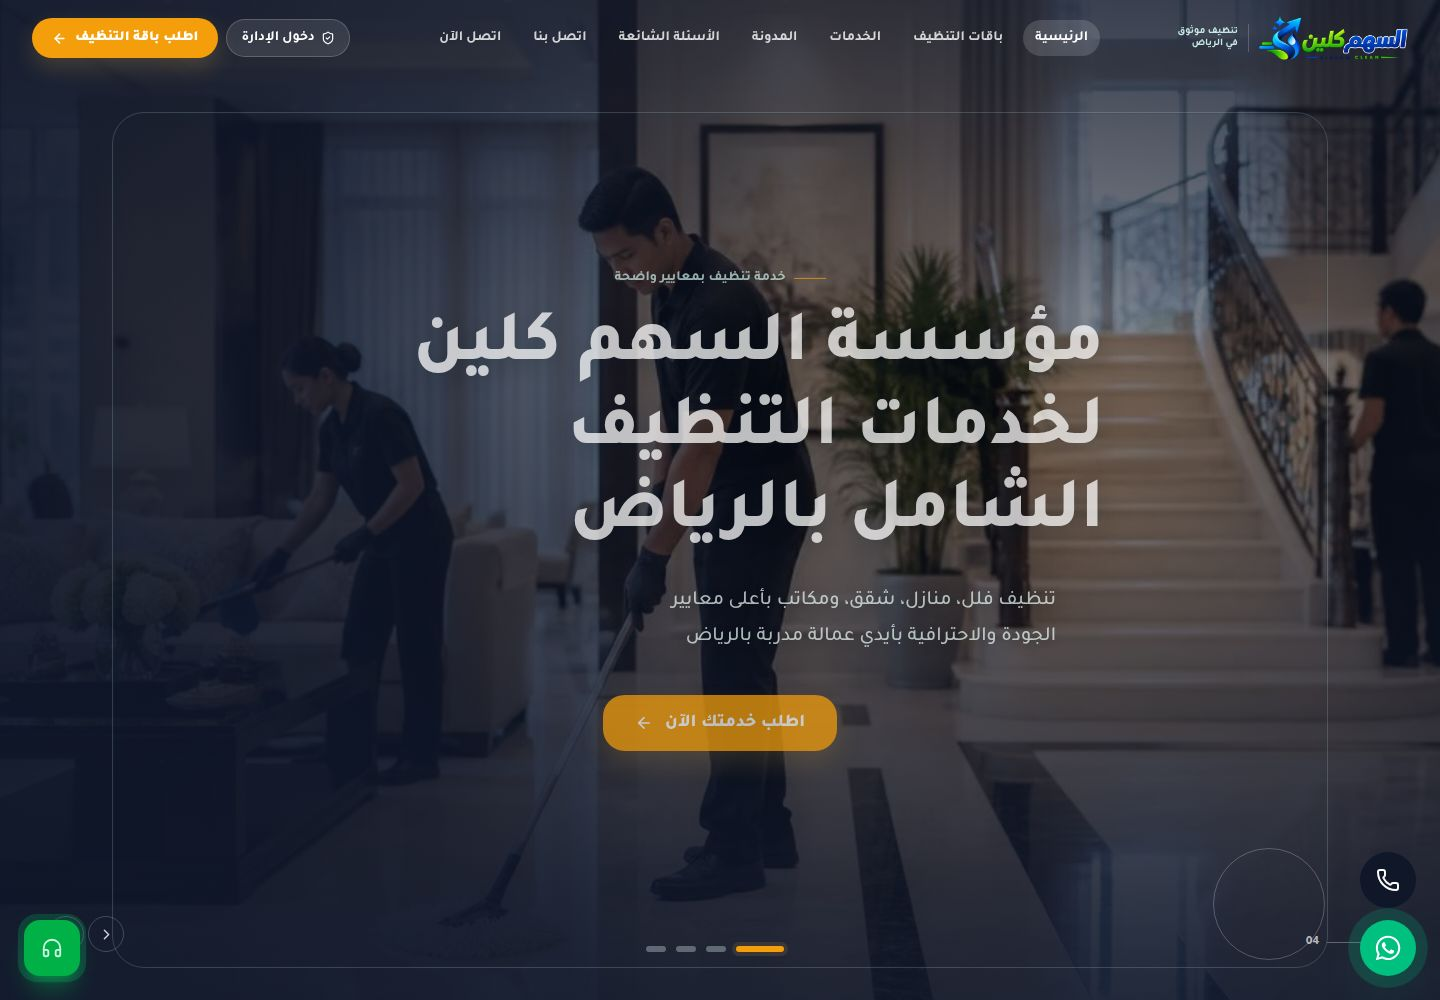
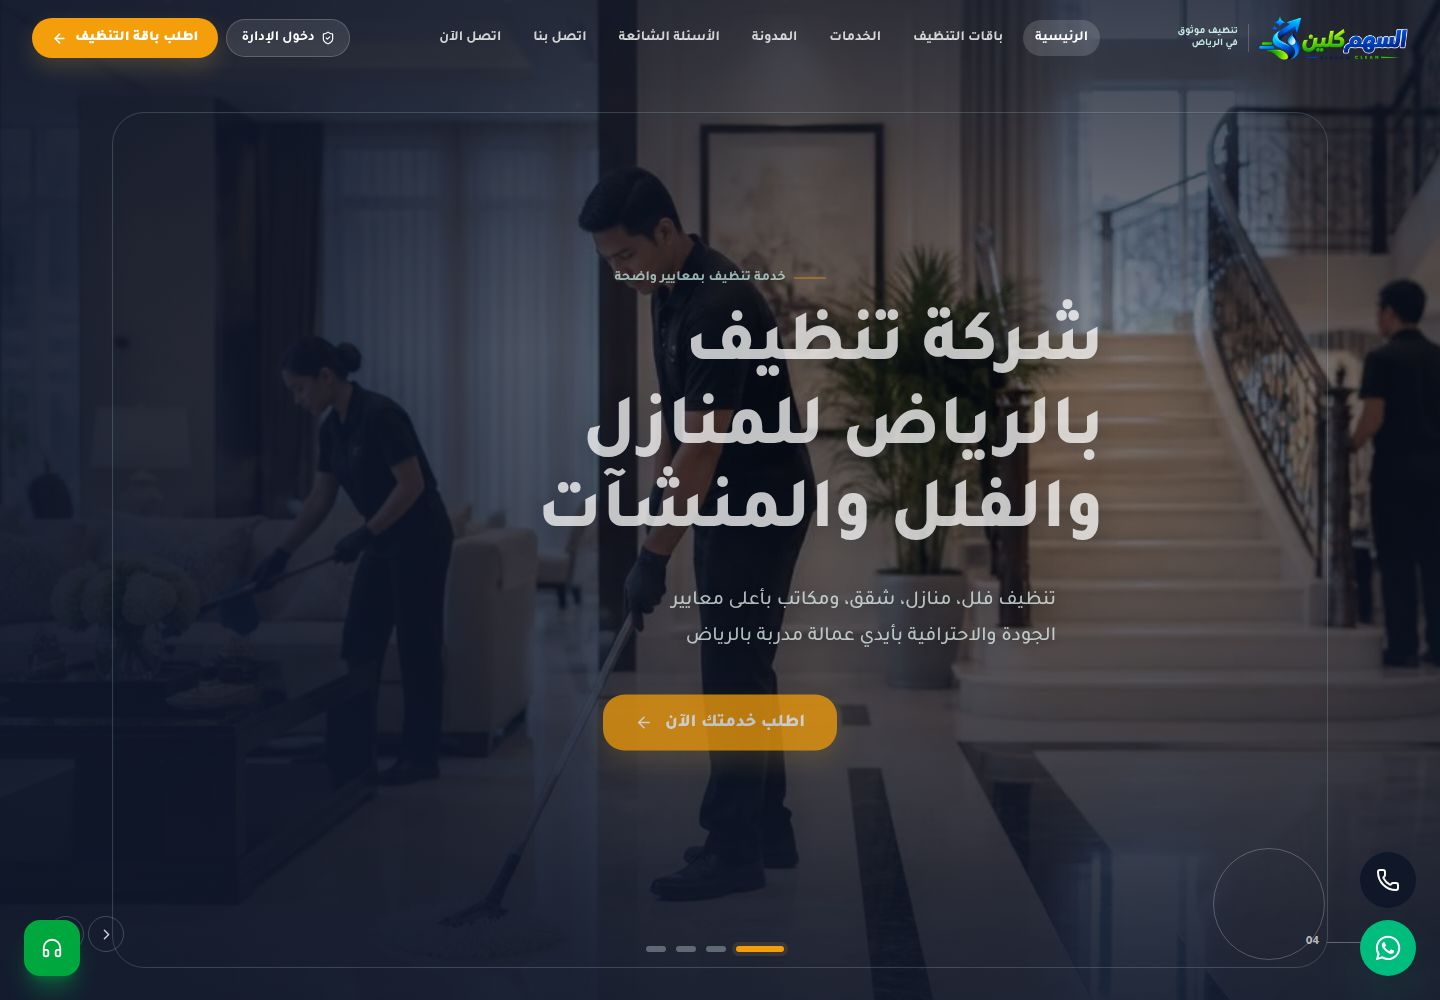
Update SEO remediation plan and sitemap generation scripts with new screenshots and documentation
Replit-Commit-Author: Agent

Changed region(s): [[0.2812, 0.31, 0.7812, 0.558], [0.9375, 0.899, 1.0, 0.992], [0.0, 0.899, 0.0625, 0.992]]

diff --git a/scripts/api-index.php b/scripts/api-index.php
@@ -818,20 +818,26 @@ try {
             'central-riyadh', 'al-olaya', 'al-sulaimaniya', 'al-malaz', 'al-murabba', 'al-batha', 'al-wizarat', 'al-futah'
         ];
 
+        // Keep this list identical to scripts/generate-sitemap.mjs. Legacy
+        // landing pages remain reachable through redirects, but must not be
+        // advertised as competing canonical URLs.
         $staticPages = [
-            ['path' => '', 'priority' => '1.0', 'freq' => 'weekly'],
+            ['path' => '/', 'priority' => '1.0', 'freq' => 'daily'],
             ['path' => '/about', 'priority' => '0.9', 'freq' => 'monthly'],
             ['path' => '/services', 'priority' => '0.95', 'freq' => 'weekly'],
             ['path' => '/cleaning-packages', 'priority' => '0.95', 'freq' => 'weekly'],
-            ['path' => '/offers', 'priority' => '0.9', 'freq' => 'weekly'],
-            ['path' => '/اتصل-الآن', 'priority' => '0.8', 'freq' => 'monthly'],
             ['path' => '/contact', 'priority' => '0.85', 'freq' => 'monthly'],
             ['path' => '/partners', 'priority' => '0.75', 'freq' => 'monthly'],
-            ['path' => '/areas', 'priority' => '0.85', 'freq' => 'monthly'],
-            ['path' => '/why-us/leadership', 'priority' => '0.75', 'freq' => 'monthly'],
-            ['path' => '/why-us/what-we', 'priority' => '0.75', 'freq' => 'monthly'],
-            ['path' => '/why-us/commitment', 'priority' => '0.75', 'freq' => 'monthly'],
-            ['path' => '/why-us/accumulated-experience', 'priority' => '0.7', 'freq' => 'monthly'],
+            ['path' => '/areas', 'priority' => '0.9', 'freq' => 'weekly'],
+            ['path' => '/faq', 'priority' => '0.85', 'freq' => 'monthly'],
+            ['path' => '/terms', 'priority' => '0.6', 'freq' => 'monthly'],
+            ['path' => '/privacy', 'priority' => '0.6', 'freq' => 'monthly'],
+            ['path' => '/chat', 'priority' => '0.7', 'freq' => 'monthly'],
+            ['path' => '/why-us/leadership', 'priority' => '0.8', 'freq' => 'monthly'],
+            ['path' => '/why-us/what-we', 'priority' => '0.8', 'freq' => 'monthly'],
+            ['path' => '/why-us/commitment', 'priority' => '0.8', 'freq' => 'monthly'],
+            ['path' => '/why-us/accumulated-experience', 'priority' => '0.8', 'freq' => 'monthly'],
+            ['path' => '/blog', 'priority' => '0.9', 'freq' => 'daily'],
         ];
 
         $lines = [
@@ -851,6 +857,7 @@ try {
             $lines[] = '    <lastmod>' . $today . '</lastmod>';
             $lines[] = '    <changefreq>' . $sp['freq'] . '</changefreq>';
             $lines[] = '    <priority>' . $sp['priority'] . '</priority>';
+            $lines[] = '    <xhtml:link rel="alternate" hreflang="ar" href="' . $xmlEscape($u) . '"/>';
             $staticImages = $sp['path'] === '/'
                 ? json_encode(['/brand-icon.png', '/images/logo.png'])
                 : ($sp['path'] === '/about'
@@ -870,21 +877,23 @@ try {
             $lines[] = '    <lastmod>' . $today . '</lastmod>';
             $lines[] = '    <changefreq>monthly</changefreq>';
             $lines[] = '    <priority>0.8</priority>';
+            $lines[] = '    <xhtml:link rel="alternate" hreflang="ar" href="' . $xmlEscape($u) . '"/>';
             $lines[] = '  </url>';
         }
 
         // Services
-        $servicesStmt = $pdo->query("SELECT seo_slug, seo_title, title, images FROM services WHERE is_active = 1 AND seo_enabled = 1");
+        $servicesStmt = $pdo->query('SELECT seo_slug, seo_title, title, images FROM services WHERE is_active = 1 AND seo_enabled = 1 AND seo_slug IS NOT NULL AND seo_slug <> \'\' ORDER BY "order" ASC');
         $services = $servicesStmt->fetchAll();
         foreach ($services as $srv) {
             $slug = $srv['seo_slug'] ?: '';
             if (!$slug) continue;
-            $u = $baseUrl . '/services/' . $slug;
+            $u = $baseUrl . '/services/' . rawurlencode($slug);
             $lines[] = '  <url>';
             $lines[] = '    <loc>' . htmlspecialchars($u, ENT_XML1) . '</loc>';
             $lines[] = '    <lastmod>' . $today . '</lastmod>';
             $lines[] = '    <changefreq>weekly</changefreq>';
             $lines[] = '    <priority>0.85</priority>';
+            $lines[] = '    <xhtml:link rel="alternate" hreflang="ar" href="' . $xmlEscape($u) . '"/>';
             $appendImages($lines, $srv['images'] ?? '[]', (string)($srv['seo_title'] ?: $srv['title']));
             $lines[] = '  </url>';
         }
@@ -892,7 +901,10 @@ try {
         // Packages
         $pkgCount = 0;
         try {
-            $pkgStmt = $pdo->query("SELECT id, seo_slug, name, images, image_url FROM packages WHERE is_active = 1 AND seo_enabled = 1");
+            // The public package API and the Node sitemap both use containers.
+            // The older packages table is an editorial compatibility table and
+            // can have rows that are not public package pages.
+            $pkgStmt = $pdo->query('SELECT id, seo_slug, name, images FROM containers WHERE is_active = 1 AND seo_enabled = 1 AND seo_slug IS NOT NULL AND seo_slug <> \'\' ORDER BY "order" ASC');
             $pkgs = $pkgStmt->fetchAll();
             $legacyPackageRouteSlugs = [
                 1 => 'tanzeef-shaqaq',
@@ -916,56 +928,49 @@ try {
             foreach ($pkgs as $pkg) {
                 $slug = $legacyPackageRouteSlugs[(int)($pkg['id'] ?? 0)] ?? ($pkg['seo_slug'] ?: '');
                 if (!$slug) continue;
-                $u = $baseUrl . '/cleaning-packages/' . $slug;
+                $u = $baseUrl . '/cleaning-packages/' . rawurlencode($slug);
                 $lines[] = '  <url>';
                 $lines[] = '    <loc>' . htmlspecialchars($u, ENT_XML1) . '</loc>';
                 $lines[] = '    <lastmod>' . $today . '</lastmod>';
                 $lines[] = '    <changefreq>weekly</changefreq>';
                 $lines[] = '    <priority>0.85</priority>';
-                $packageImages = !empty($pkg['images'])
-                    ? $pkg['images']
-                    : json_encode(array_filter([(string)($pkg['image_url'] ?? ''), '/images/service-apartments.jpg']));
-                $appendImages($lines, $packageImages, (string)$pkg['name']);
+                $lines[] = '    <xhtml:link rel="alternate" hreflang="ar" href="' . $xmlEscape($u) . '"/>';
+                $appendImages($lines, $pkg['images'] ?? '[]', (string)$pkg['name']);
                 $lines[] = '  </url>';
                 $pkgCount++;
             }
         } catch (\Exception $e) {}
 
         // Blog
-        $lines[] = '  <url>';
-        $lines[] = '    <loc>' . htmlspecialchars($baseUrl . '/blog', ENT_XML1) . '</loc>';
-        $lines[] = '    <lastmod>' . $today . '</lastmod>';
-        $lines[] = '    <changefreq>weekly</changefreq>';
-        $lines[] = '    <priority>0.8</priority>';
-        $lines[] = '  </url>';
-
-        $postsStmt = $pdo->query("SELECT slug, title, published_at, cover_image, og_image FROM posts WHERE status = 'published' AND is_active = 1");
+        $postsStmt = $pdo->query("SELECT slug, title, published_at, updated_at, cover_image FROM posts WHERE status = 'published' AND is_active = 1 AND slug IS NOT NULL AND slug <> '' ORDER BY published_at DESC");
         $posts = $postsStmt->fetchAll();
         foreach ($posts as $post) {
             $slug = $post['slug'] ?: '';
             if (!$slug) continue;
-            $u = $baseUrl . '/blog/' . $slug;
+            $u = $baseUrl . '/blog/' . rawurlencode($slug);
             $lines[] = '  <url>';
             $lines[] = '    <loc>' . htmlspecialchars($u, ENT_XML1) . '</loc>';
-            $lines[] = '    <lastmod>' . substr((string)($post['published_at'] ?: $today), 0, 10) . '</lastmod>';
+            $lines[] = '    <lastmod>' . substr((string)($post['updated_at'] ?: $post['published_at'] ?: $today), 0, 10) . '</lastmod>';
             $lines[] = '    <changefreq>monthly</changefreq>';
             $lines[] = '    <priority>0.75</priority>';
-            $appendImages($lines, json_encode(array_filter([(string)($post['og_image'] ?? ''), (string)($post['cover_image'] ?? '')])), (string)$post['title']);
+            $lines[] = '    <xhtml:link rel="alternate" hreflang="ar" href="' . $xmlEscape($u) . '"/>';
+            $appendImages($lines, json_encode(array_filter([(string)($post['cover_image'] ?? '')])), (string)$post['title']);
             $lines[] = '  </url>';
         }
 
         // SEO Pages
-        $pagesStmt = $pdo->query("SELECT slug, seo_slug, title, target_keyword, content, published_at, cover_image, og_image FROM seo_pages WHERE status = 'published' AND is_active = 1 AND trim(target_keyword) <> ''");
+        $pagesStmt = $pdo->query("SELECT slug, title, target_keyword, content, published_at, updated_at, cover_image, og_image FROM seo_pages WHERE status = 'published' AND is_active = 1 AND slug IS NOT NULL AND slug <> '' AND trim(target_keyword) <> '' ORDER BY published_at DESC");
         $seoPages = array_values(array_filter($pagesStmt->fetchAll(), $isIndexableSeoPage));
         foreach ($seoPages as $sp) {
-            $slug = $sp['slug'] ?: $sp['seo_slug'] ?: '';
+            $slug = $sp['slug'] ?: '';
             if (!$slug) continue;
-            $u = $baseUrl . '/page/' . $slug;
+            $u = $baseUrl . '/page/' . rawurlencode($slug);
             $lines[] = '  <url>';
             $lines[] = '    <loc>' . htmlspecialchars($u, ENT_XML1) . '</loc>';
-            $lines[] = '    <lastmod>' . substr((string)($sp['published_at'] ?: $today), 0, 10) . '</lastmod>';
+            $lines[] = '    <lastmod>' . substr((string)($sp['updated_at'] ?: $sp['published_at'] ?: $today), 0, 10) . '</lastmod>';
             $lines[] = '    <changefreq>monthly</changefreq>';
             $lines[] = '    <priority>0.82</priority>';
+            $lines[] = '    <xhtml:link rel="alternate" hreflang="ar" href="' . $xmlEscape($u) . '"/>';
             $appendImages($lines, json_encode(array_filter([(string)($sp['og_image'] ?? ''), (string)($sp['cover_image'] ?? '')])), (string)$sp['title']);
             $lines[] = '  </url>';
         }
@@ -973,7 +978,7 @@ try {
         $lines[] = '</urlset>';
 
         $xml = implode("\n", $lines);
-        $totalUrls = count($staticPages) + count($neighborhoods) + count($services) + $pkgCount + 1 + count($posts) + count($seoPages);
+        $totalUrls = count($staticPages) + count($neighborhoods) + count($services) + $pkgCount + count($posts) + count($seoPages);
 
         return [
             'xml' => $xml,
@@ -983,7 +988,7 @@ try {
             'servicePages' => count($services),
             'containerPages' => $pkgCount,
             'packagePages' => $pkgCount,
-            'blogPages' => count($posts) + 1,
+            'blogPages' => count($posts),
             'seoPages' => count($seoPages)
         ];
     }

diff --git a/SEO_REMEDIATION_PLAN.md b/SEO_REMEDIATION_PLAN.md
@@ -44,7 +44,7 @@
 
 - [x] بناء Vite وprerender وأرشيف Hostinger من المصدر الحالي.
 - [x] فحص sitemap داخل الأرشيف وفحص عينة من الروابط.
-- [x] أخذ نسخة احتياطية ثم رفع الأرشيف إلى Hostinger.
+- [ ] أخذ نسخة احتياطية ثم رفع الأرشيف إلى Hostinger.
 - [ ] فحص sitemap وrobots وHTML وcanonical وindexability من Production.
 - [x] إرسال sitemap إلى Google Search Console.
 
@@ -88,3 +88,12 @@
 - تم إعادة بناء أرشيف Hostinger بنجاح: 368 ملف HTML مسبق، 132 رابط sitemap، 100 صورة sitemap، وبوابة SEO ناجحة. لم يتم رفع الأرشيف إلى Hostinger تلقائياً.
 - فحوص ما بعد البناء: فحص الأنواع نجح لكل الحزم، فحص المحتوى الداخلي أعاد 0 صفحات placeholder، ولا توجد صفحات `noindex` داخل sitemap.
 - البنود الخارجية التي لا يجوز اختلاقها برمجياً ما زالت معلقة: Google Business Profile، التقييمات الحقيقية، Search Console، Core Web Vitals الفعلية، والروابط الخارجية المحلية.
+
+### 2026-09-03 — توحيد sitemap بين البناء وHostinger
+
+- تم توحيد مولّد sitemap في PHP مع مولّد البناء: نفس الصفحات العامة، مصدر الباقات `containers`، وسياسة صفحات SEO.
+- تم توحيد ترميز slugs العربية والـ canonical URLs، مع إبقاء المسارات القديمة للتحويل 301 فقط وعدم إدراجها في sitemap.
+- أُعيد بناء `cleanflow-services-hostinger.zip` بنجاح.
+- التحقق النهائي: 132 رابطًا فريدًا ومتطابقًا بين sitemap المصدر ونسخة الأرشيف، 0 روابط legacy، وجميع الروابط الديناميكية لها HTML مسبق.
+- فحص الأنواع وصحة ملفات PHP وملف ZIP وبوابة SEO نجحت. التحذيرات المتبقية في بوابة SEO تخص CTA لبعض الصفحات التعريفية وليست أخطاء فهرسة.
+- الرفع إلى Hostinger والتحقق من `robots.txt` و`sitemap.xml` وHTML الحي ما زالا معلقين لأنهما يتطلبان إجراء النشر الخارجي.

diff --git a/.agents/memory/sitemap-source-parity.md b/.agents/memory/sitemap-source-parity.md
@@ -1,0 +1,10 @@
+---
+name: Sitemap source parity
+description: The Node build sitemap and PHP Hostinger regeneration must emit the same public URL set.
+---
+
+The deployable sitemap has two generators: the Node build-time generator and the PHP Hostinger runtime generator. They must use the same public tables, indexability policy, legacy route aliases, URL encoding, and canonical static-page list.
+
+**Why:** A valid sitemap can still be inconsistent across the archive and runtime. That inconsistency makes deployments appear correct locally while Hostinger or later admin regeneration advertises a different URL set.
+
+**How to apply:** After changing sitemap routes or SEO policy, generate both outputs from the same database snapshot, compare decoded `<loc>` sets, validate both files, and confirm every dynamic URL has a prerendered HTML file.

diff --git a/.agents/memory/MEMORY.md b/.agents/memory/MEMORY.md
@@ -2,3 +2,4 @@
 - [Live sitemap validation](live-sitemap-validation.md) — a passing local sitemap generator does not prove the deployed sitemap is valid; inspect live `<loc>` content after publishing.
 - [Package route compatibility](package-route-compatibility.md) — sitemap and current package API use different slug sources; preserve a shared legacy alias layer when changing package routes.
 - [Hostinger generated-route cleanup](stale-generated-routes.md) — full builds must remove retired generated folders from both the frontend dist and the archive staging directory.
+- [Sitemap source parity](sitemap-source-parity.md) — Node build and PHP Hostinger sitemap generators must emit the same decoded public URL set.
